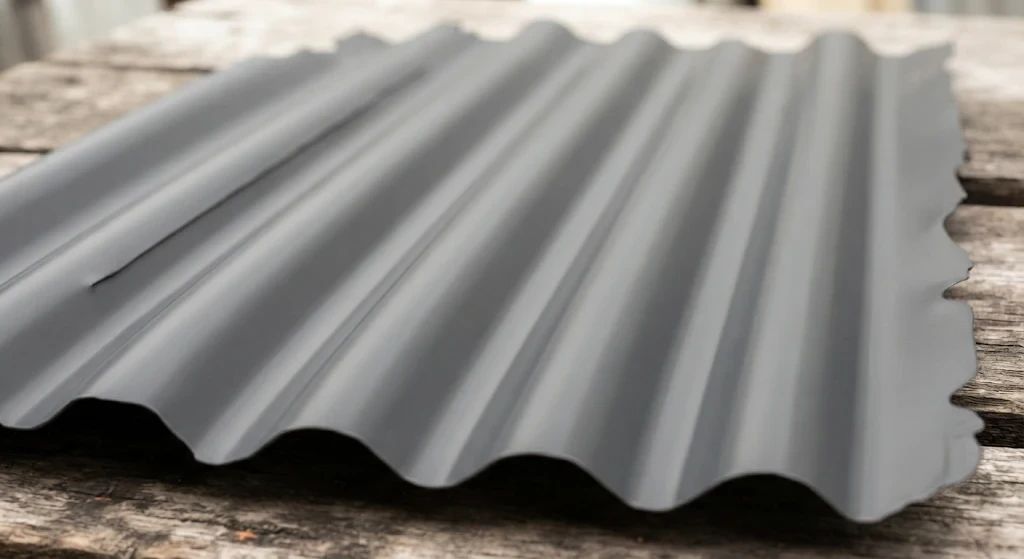
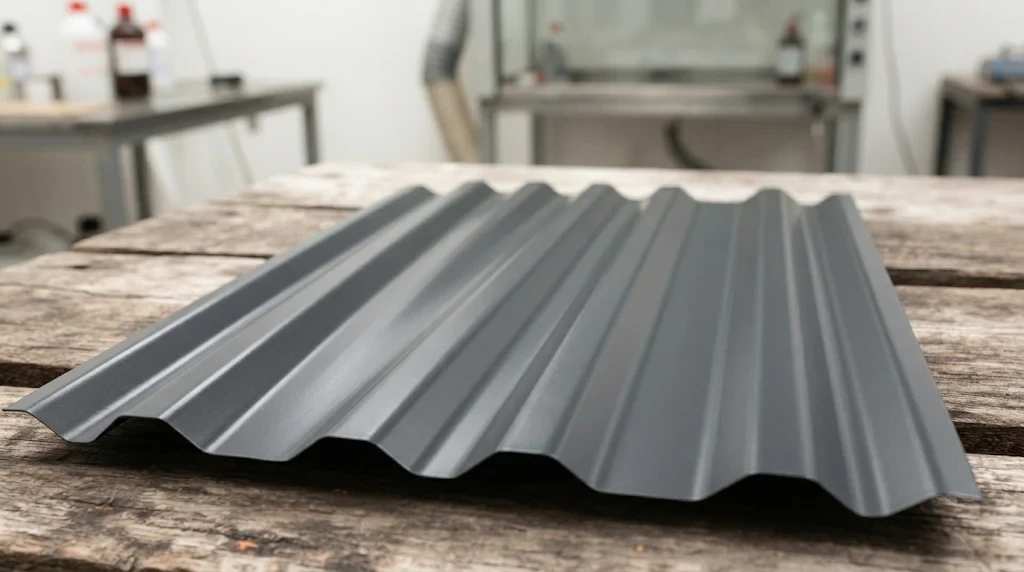
Antes e depois com a nova telha: tinta em pó poliéster aplicada eletrostaticamente

diff --git a/components/BeforeAfter.tsx b/components/BeforeAfter.tsx
@@ -12,13 +12,13 @@ export function BeforeAfter() {
     <div className={styles.wrap}>
       <div className={styles.canvas} style={{ "--position": `${position}%` } as React.CSSProperties}>
         <div className={styles.layer}>
-          <Image src="/surfaces/telha-antes.webp" alt="Telha de aço galvanizado muito enferrujada, antes da preparação" fill sizes="(max-width: 1100px) 90vw, 1320px" quality={90} className={styles.photo} />
+          <Image src="/surfaces/telha-antes.webp" alt="Telha de aço galvanizado enferrujada sobre bancada, antes do tratamento" fill sizes="(max-width: 1100px) 90vw, 1320px" quality={90} className={styles.photo} />
         </div>
         <div className={`${styles.layer} ${styles.after}`}>
-          <Image src="/surfaces/telha-depois.webp" alt="A mesma telha após preparação e pintura em tinta em pó cinza" fill sizes="(max-width: 1100px) 90vw, 1320px" quality={90} className={styles.photo} />
+          <Image src="/surfaces/telha-depois.webp" alt="A mesma telha após pintura eletrostática com tinta em pó poliéster cinza" fill sizes="(max-width: 1100px) 90vw, 1320px" quality={90} className={styles.photo} />
         </div>
         <span className={`${styles.label} ${styles.beforeLabel}`}>Antes · sem tratamento</span>
-        <span className={`${styles.label} ${styles.afterLabel}`}>Depois · preparado e revestido</span>
+        <span className={`${styles.label} ${styles.afterLabel}`}>Depois · tinta em pó poliéster</span>
         <div className={styles.divider} aria-hidden="true"><i className={styles.arrows} /></div>
         <span className={styles.hint} aria-hidden="true">Arraste para comparar</span>
         <input
